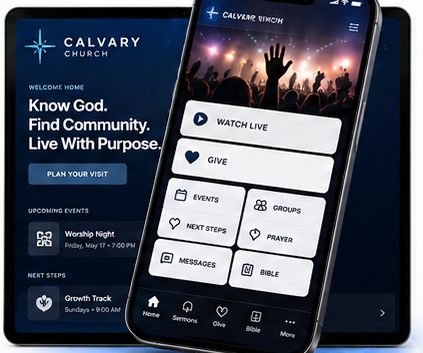
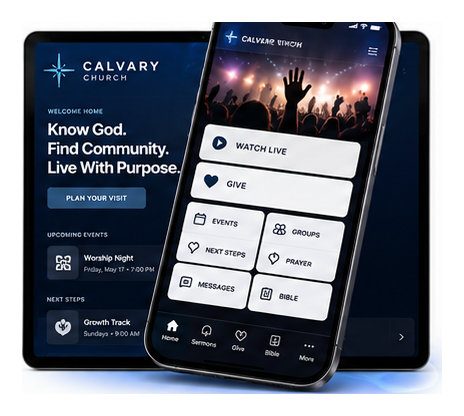
Add files via upload

diff --git a/index.html b/index.html
@@ -185,14 +185,8 @@
 
 <section class="section-light" id="story">
   <div class="container pastor">
-    <div class="ministry-visual" aria-label="Ministry-first Propel visual showing real ministry activity and actionable next steps">
-      <img class="ministry-photo" src="/assets/calvary-mobile-hero.jpg" alt="Worship gathering representing real ministry life">
-      <div class="ministry-photo-shade"></div>
-      <div class="ministry-first-badge">MINISTRY FIRST</div>
-      <div class="ministry-visual-copy"><span>REAL MINISTRY. REAL PEOPLE. REAL NEXT STEPS.</span><strong>Technology built around how ministry actually happens.</strong><div class="ministry-mini-path">CONNECT <i>→</i> ENGAGE <i>→</i> EQUIP <i>→</i> DISCIPLE <i>→</i> SEND</div></div>
-      <div class="ministry-float float-one"><b>12 First-Time Guests</b><span>Follow-up ready</span></div>
-      <div class="ministry-float float-two"><b>3 Completed Growth Track</b><span>Ready for their next step</span></div>
-      <div class="ministry-float float-three"><b>86 Serving This Weekend</b><span>Teams prepared</span></div>
+    <div class="ministry-approved-visual" aria-label="Ministry First visual showing welcome, outreach, worship, ministry momentum and the Connect Engage Equip Disciple Send pathway">
+      <img src="/assets/propel-ministry-first-approved.png" alt="Technology should serve the mission: real ministry, real people and real impact, with ministry welcome, outreach, worship and Propel ministry momentum">
     </div>
     <div><span class="tag">Built from the heart of ministry</span><h2 style="font-size:clamp(38px,4.7vw,62px);line-height:1.03;letter-spacing:-.045em;margin:14px 0 22px">Designed by people who understand what ministry actually feels like.</h2><p style="font-size:18px;color:#526272">Propel is being built from firsthand ministry leadership experience, shaped by the real needs and input of leaders serving across different areas, generations and church environments.</p><p style="font-size:18px;color:#526272">That perspective changes what gets built. We’re not asking, “What features can we sell a church?” We’re asking, “What would genuinely help ministry leaders accomplish the vision God has placed in their hearts?”</p><p style="font-size:18px;color:#526272"><strong>That is the lens behind every Propel feature—today and tomorrow.</strong></p></div>
   </div>
@@ -203,10 +197,10 @@
     <div class="section-head center"><span class="eyebrow">The Propel roadmap</span><h2>And we’re just getting started.</h2><p>Launch with powerful capabilities today—and position your ministry among the first to access a new generation of ministry technology as Propel expands.</p></div>
     <div class="roadmap">
       <div class="card"><span class="tag future">Coming Soon</span><strong>Propel AI Ministry Assistant</strong><p>AI-assisted ministry tools designed to help leaders surface information, support communication and turn ministry data into useful next steps.</p><ul><li>Ministry insights</li><li>Communication assistance</li><li>Search and resource discovery</li></ul></div>
-      <div class="card"><span class="tag future">Coming Soon</span><strong>Digital Evangelism Engine</strong><p>Tools designed to help churches move beyond internal engagement and empower people to invite, share, connect and reach others.</p><ul><li>Shareable ministry pathways</li><li>Outreach engagement</li><li>Invitation experiences</li></ul></div>
-      <div class="card"><span class="tag future">Coming Soon</span><strong>Discipleship Journeys</strong><p>Structured pathways that help ministries guide people from first connection through growth, serving, leadership and multiplication.</p><ul><li>Growth pathways</li><li>Courses and resources</li><li>Progress visibility</li></ul></div>
-      <div class="card"><span class="tag future">Coming Soon</span><strong>Ministry Automation</strong><p>Reduce repetitive work with intelligent workflows that can help teams respond faster and follow through more consistently.</p><ul><li>Guest workflows</li><li>Next-step triggers</li><li>Team notifications</li></ul></div>
-      <div class="card"><span class="tag future">Coming Soon</span><strong>Advanced Ministry Analytics</strong><p>Move beyond raw numbers toward a clearer picture of engagement, generosity, serving, follow-up and ministry health.</p><ul><li>Engagement trends</li><li>Ministry dashboards</li><li>Leadership reporting</li></ul></div>
+      <div class="card"><span class="tag future">Coming Soon</span><strong>Digital Evangelism Engine</strong><p>Tools designed to help churches move beyond internal engagement and empower people to invite, share, connect and reach others.</p><ul><li>Shareable ministry pathways</li><li>Outreach engagement</li><li>Invitation experiences</li></ul><p class="partial-note"><span>*</span> Some of these features have already been added. The rest will be completed any day.</p></div>
+      <div class="card"><span class="tag future">Coming Soon</span><strong>Discipleship Journeys</strong><p>Structured pathways that help ministries guide people from first connection through growth, serving, leadership and multiplication.</p><ul><li>Growth pathways</li><li>Courses and resources</li><li>Progress visibility</li></ul><p class="partial-note"><span>*</span> Some of these features have already been added. The rest will be completed any day.</p></div>
+      <div class="card"><span class="tag future">Coming Soon</span><strong>Ministry Automation</strong><p>Reduce repetitive work with intelligent workflows that can help teams respond faster and follow through more consistently.</p><ul><li>Guest workflows</li><li>Next-step triggers</li><li>Team notifications</li></ul><p class="partial-note"><span>*</span> Some of these features have already been added. The rest will be completed any day.</p></div>
+      <div class="card"><span class="tag future">Coming Soon</span><strong>Advanced Ministry Analytics</strong><p>Move beyond raw numbers toward a clearer picture of engagement, generosity, serving, follow-up and ministry health.</p><ul><li>Advanced engagement trends</li><li>Advanced ministry dashboards</li><li>Advanced ministry reports</li><li>Advanced leadership reporting</li><li>Advanced follow-up analytics</li><li>Advanced ministry health insights</li></ul></div>
       <div class="card"><span class="tag future">Coming Soon</span><strong>Multi-Campus & Expanded Ministry</strong><p>Architecture designed to grow with churches, campuses, ministries and organizations as their reach becomes larger and more complex.</p><ul><li>Role-based access</li><li>Campus visibility</li><li>Shared platform experience</li></ul></div>
     </div>
   </div>

diff --git a/styles.css b/styles.css
@@ -407,3 +407,16 @@ header .brand img{width:205px;max-height:52px;object-fit:contain;object-position
 .ministry-float{position:absolute;right:22px;z-index:3;width:210px;padding:14px 16px;border-radius:16px;background:rgba(255,255,255,.96);box-shadow:0 18px 42px rgba(0,0,0,.22);color:#0b1320;border:1px solid rgba(255,255,255,.72)}.ministry-float:before{content:'✓';position:absolute;right:14px;top:14px;width:22px;height:22px;border-radius:50%;display:grid;place-items:center;background:#dcfce7;color:#16a34a;font-size:12px;font-weight:900}.ministry-float b{display:block;font-size:13px;padding-right:24px}.ministry-float span{display:block;margin-top:4px;color:#64748b;font-size:11px}.float-one{top:84px}.float-two{top:176px}.float-three{top:268px}
 @media(max-width:980px){.experience-media{height:330px}.ministry-visual{min-height:430px}.ministry-visual-copy{max-width:60%}}
 @media(max-width:640px){.experience-media{height:245px}.ministry-visual{min-height:500px}.ministry-visual-copy{left:22px;right:22px;bottom:24px;max-width:none}.ministry-visual-copy>strong{font-size:25px}.ministry-mini-path{white-space:normal;line-height:1.8}.ministry-float{right:14px;width:185px;padding:11px 12px}.float-one{top:80px}.float-two{top:160px}.float-three{top:240px}}
+
+/* V9 approved visual corrections */
+.experience-media{background:linear-gradient(145deg,#f7fbf8,#eef7f1);padding:10px;overflow:hidden}
+.experience-media img{object-fit:contain;object-position:center;width:100%;height:100%}
+.app-card .experience-media{padding:4px 8px 2px}
+.web-card .experience-media{padding:18px 12px;background:linear-gradient(145deg,#f8fbf9,#edf6f0)}
+.hub-card .experience-media{padding:18px;background:linear-gradient(145deg,#f8fbf9,#eef7f1)}
+.ministry-approved-visual{display:flex;align-items:center;justify-content:center;min-width:0}
+.ministry-approved-visual img{display:block;width:100%;height:auto;border-radius:30px;box-shadow:0 30px 70px rgba(15,23,42,.18)}
+.partial-note{margin-top:16px!important;color:#47df78!important;font-size:12px!important;line-height:1.45;font-weight:750}
+.partial-note span{color:#26d765;font-weight:950}
+@media(max-width:980px){.experience-media{height:320px}.ministry-approved-visual img{max-width:760px}}
+@media(max-width:640px){.experience-media{height:240px;padding:8px}.ministry-approved-visual img{border-radius:22px}}

diff --git a/README.md b/README.md
@@ -40,3 +40,10 @@ Added Organization/WebSite structured data, public Propel email/address, Open Gr
 
 ## V2 Homepage Refinement
 Homepage upgraded with premium product storytelling, ministry outcome section, early-adopter positioning, improved visual hierarchy, and stronger conversion flow.
+
+## V9 approved-section sync
+- Uses the locked transparent Propel hero image.
+- Corrected premium product-card framing for Apps, Websites and Ministry Hub.
+- Uses the locked Ministry First / Technology Should Serve the Mission visual.
+- Adds partial-availability notes to Digital Evangelism Engine, Discipleship Journeys and Ministry Automation.
+- Clarifies Advanced Ministry Analytics as advanced-only capabilities.
